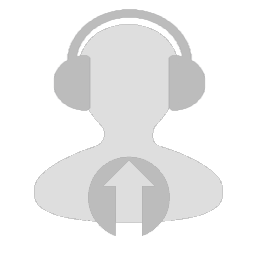
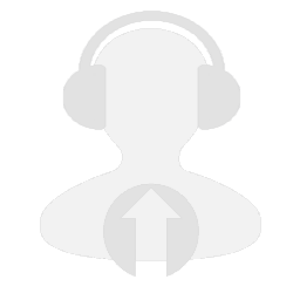
Correção de container para imagem
Corrigido carga da imagem para manter o aspecto e para salvar no tamanho
correto. Retirada restrição do atributo 'download'

diff --git a/js/app.js b/js/app.js
@@ -58,7 +58,7 @@ function beforePage(i) {
             var y = capturePixel(cutter.css("top"));
             var w = capturePixel(cutter.css("width"));
             var h = capturePixel(cutter.css("height"));
-            ctx.drawImage($("#avatarImg")[0], x, y, w, h, 0, 0, canvas.width-2, canvas.height-2);
+            ctx.drawImage($("#avatarImg")[0], x, y, w, h, 0, 0, canvas.width, canvas.height);
         }
         
     } else if (page == 2 && i > 0) {
@@ -145,7 +145,34 @@ $(document).ready(function(){
         reader.onload = function(event){
             var img = new Image();
             img.onload = function(){
-                ctx.drawImage(img, 0, 0, canvas.width-2, canvas.height-2);
+                if (img.width != img.height) {
+                    if (img.height < canvas.height && img.width < canvas.width) {
+                        // centralize
+                        var x = Math.floor((canvas.width - img.width)/2);
+                        var y = Math.floor((canvas.height - img.height)/2);
+                        ctx.drawImage(img, x, y);
+                    } else {
+                        var x = 0; y = 0; 
+                        var w, h, factor;
+                        if (img.height > img.width) {
+                            // fit to height
+                            factor = canvas.height / img.height;
+                            h = Math.floor(factor * img.height);
+                            w = Math.floor(factor * img.width);
+                            x = Math.floor((canvas.width - w)/2);
+                        } else {
+                            // fit to width
+                            factor = canvas.width / img.width;
+                            h = Math.floor(factor * img.height);
+                            w = Math.floor(factor * img.width);
+                            y = Math.floor((canvas.height - h)/2);
+                        }
+                        ctx.drawImage(img, 0, 0, img.width, img.height, x, y, w, h);
+                    };
+                } else {
+                    // fit to content
+                    ctx.drawImage(img, 0, 0, canvas.width, canvas.height);
+                };
             }
             img.src = event.target.result;
         }
@@ -167,11 +194,9 @@ $(document).ready(function(){
         var profile = $("#profile");
         var icon = $(this).data("icon");
         if (!profile.data("icon") != icon) {
-            //profile.removeClass(profile.data("icon"));
             profile.data("icon", icon);
             profile.css("background-image", "url(images/" + icon + ".png)");
             changeProfileColor($("#color").val());
-            //profile.addClass(icon);
         }
         $(".profile").each(function() { $(this).removeClass("active"); });
         $(this).addClass("active");
@@ -197,11 +222,5 @@ $(document).ready(function(){
 
     $("#next").on("click", function() { navigate(1) });
     $("#previous").on("click", function() { navigate(-1) });
-    
-    // check for download button support
-    var a = document.createElement('a');
-    if (typeof a.download == "undefined") {
-        $("#download").popover();    
-    }    
     
 });

diff --git a/index.html b/index.html
@@ -114,12 +114,12 @@
                 <div class="col-sm-12">
                     <div class="center">
                         <div class="btn-group" id="downloadSizes">
-                            <button type="button" class="btn btn-default downsize active" title="Twitter 400x400"  data-size="400" data-prefix="tt"><i class="fa fa-lg fa-twitter"></i></button>
+                            <button type="button" class="btn btn-default downsize active" title="Twitter 300x300"  data-size="300" data-prefix="tt"><i class="fa fa-lg fa-twitter"></i></button>
                             <button type="button" class="btn btn-default downsize" title="Facebook 150x150" data-size="150" data-prefix="fb"><i class="fa fa-lg fa-facebook"></i></button>
                             <button type="button" class="btn btn-default downsize" title="YouTube 250x250" data-size="250" data-prefix="yt"><i class="fa fa-lg fa-youtube"></i></button>
                             <button type="button" class="btn btn-default downsize" title="Instagram 110x110" data-size="110" data-prefix="insta"><i class="fa fa-lg fa-instagram"></i></button>
                             <button type="button" class="btn btn-default downsize" title="Pinterest 165x165" data-size="165" data-prefix="pin"><i class="fa fa-lg fa-pinterest"></i></button>
-                            <a href="#" class="btn btn-primary" id="download" download="tt_podcastfied" data-toggle="popover" data-title="Não suporta HTML5" data-content="Clique com botão direito na imagem para salvar">
+                            <a href="#" class="btn btn-primary" id="download" download="tt_podcastfied">
                                 <i class="fa fa-floppy-o"></i> Salvar                        
                             </a>
                         </div>              
@@ -134,7 +134,7 @@
             </div>
             <ul class="pager">
                 <li><a href="#" id="previous" class="hide">Voltar</a></li>
-                <li><a href="#" id="next">Próximo</a></li>
+                <li><a href="#" id="next">Avançar</a></li>
             </ul>
         </div>   
         <div id="about" class="modal fade" role="dialog">

diff --git a/style.css b/style.css
@@ -18,14 +18,15 @@ footer {
     width: 300px;
     height: 300px;
     margin-left: auto;
-    margin-right: auto;    
+    margin-right: auto;
+    box-sizing: content-box;
 }
 
 #avatarImg {
     border: 0;
     background-image: url(images/avatar.png);
     background-repeat: no-repeat;
-    background-size: contain;
+    background-size: auto;
     position: absolute;
 }
 
@@ -47,11 +48,15 @@ footer {
 
 #avatarWork {
     border: 0;
+    width:300px; 
+    height:300px;
     position: absolute;
 }
 
 #avatarFinal {
     border: 0;
+    width:300px; 
+    height:300px;
 }
 
 #profileContainer {
